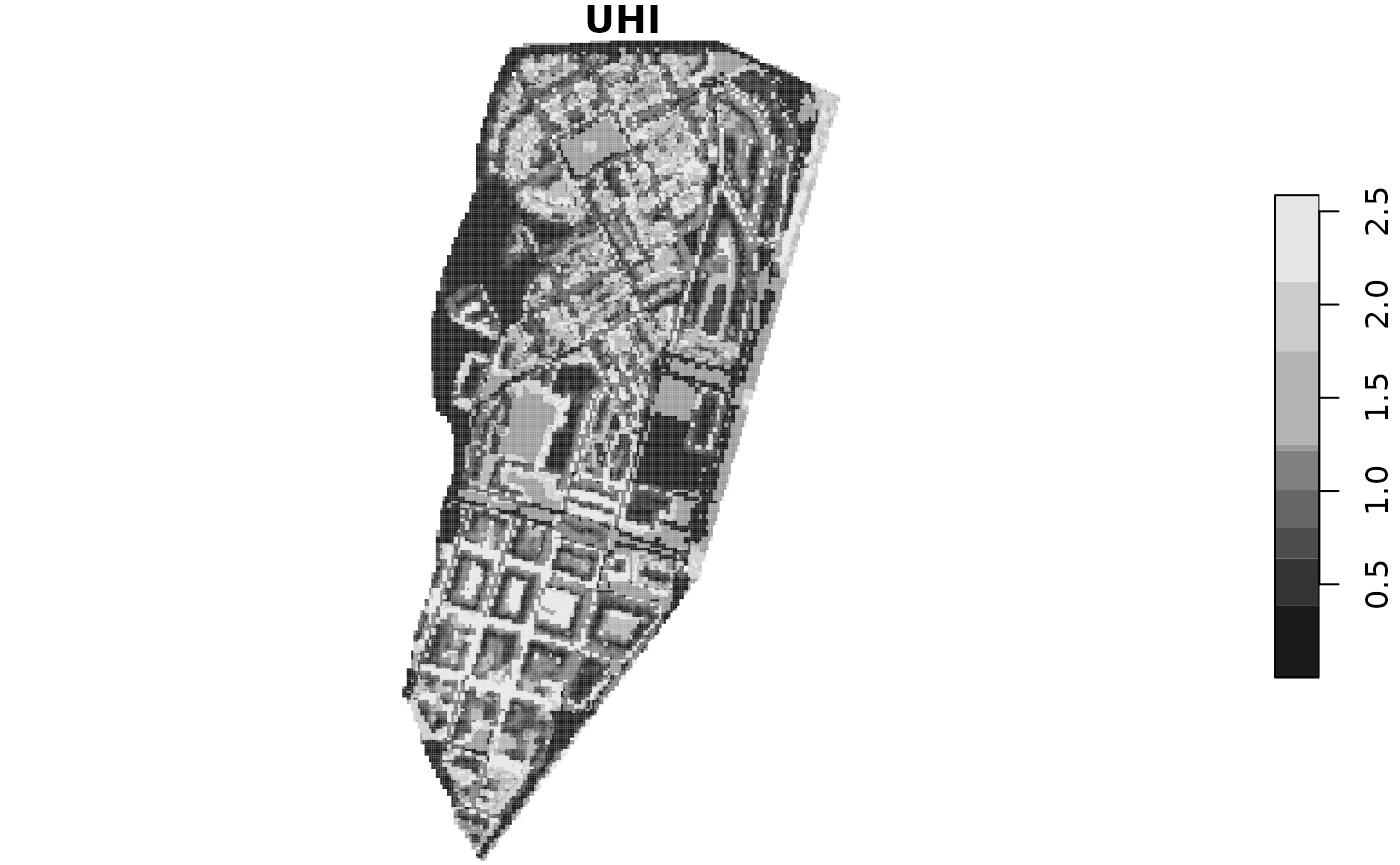
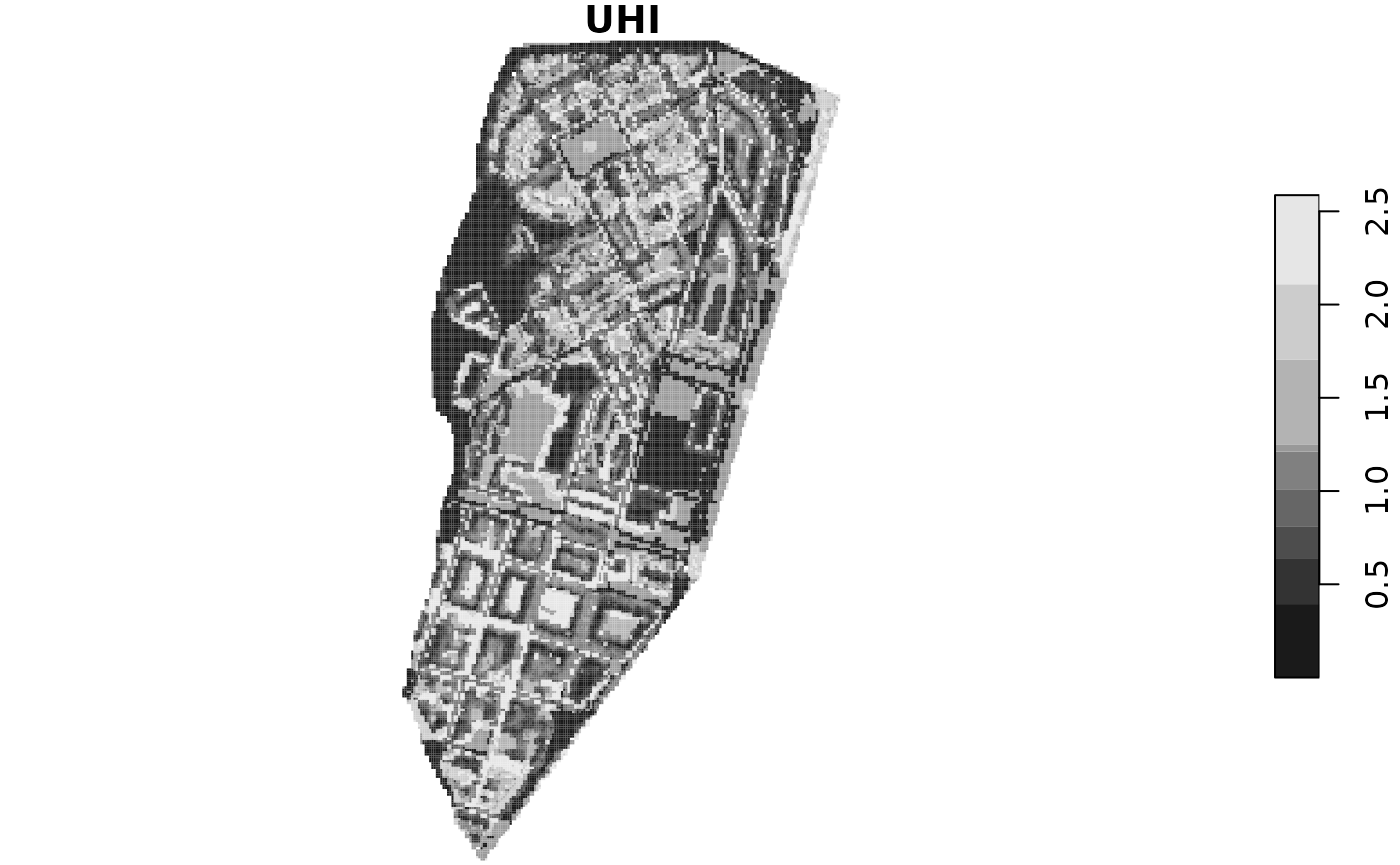
Deploying to gh-pages from @ icra/ediblecity@9cc6f27f5f95d13e22a5ce45d233c3fc29046c6a 🚀

diff --git a/articles/ediblecity.html b/articles/ediblecity.html
@@ -26,7 +26,7 @@
     
     <a class="navbar-brand me-2" href="../index.html">ediblecity</a>
 
-    <small class="nav-text text-muted me-auto" data-bs-toggle="tooltip" data-bs-placement="bottom" title="">0.2.0</small>
+    <small class="nav-text text-muted me-auto" data-bs-toggle="tooltip" data-bs-placement="bottom" title="">0.2.1</small>
 
     
     <button class="navbar-toggler" type="button" data-bs-toggle="collapse" data-bs-target="#navbar" aria-controls="navbar" aria-expanded="false" aria-label="Toggle navigation">
@@ -127,7 +127,7 @@ factor. See <code><a href="../reference/UHI.html">?UHI</a></code> for more detai
 <div class="sourceCode" id="cb3"><pre class="downlit sourceCode r">
 <code class="sourceCode R"><span><span class="fu"><a href="../reference/UHI.html">UHI</a></span><span class="op">(</span><span class="va">scenario</span>, <span class="va">SVF</span><span class="op">)</span></span>
 <span><span class="co">#&gt;    Min. 1st Qu.  Median    Mean 3rd Qu.    Max. </span></span>
-<span><span class="co">#&gt;  0.0000  0.5428  1.0055  1.0321  1.4313  2.5867</span></span></code></pre></div>
+<span><span class="co">#&gt;  0.0000  0.5454  1.0096  1.0291  1.4147  2.5867</span></span></code></pre></div>
 <div class="sourceCode" id="cb4"><pre class="downlit sourceCode r">
 <code class="sourceCode R"><span><span class="fu"><a href="https://rdrr.io/r/graphics/plot.default.html" class="external-link">plot</a></span><span class="op">(</span><span class="fu"><a href="../reference/UHI.html">UHI</a></span><span class="op">(</span><span class="va">scenario</span>, <span class="va">SVF</span>, return_raster <span class="op">=</span> <span class="cn">TRUE</span><span class="op">)</span><span class="op">)</span></span></code></pre></div>
 <p><img src="ediblecity_files/figure-html/unnamed-chunk-3-1.png" width="700"></p>
@@ -142,7 +142,7 @@ agriculture.</p>
 <div class="sourceCode" id="cb5"><pre class="downlit sourceCode r">
 <code class="sourceCode R"><span><span class="fu"><a href="../reference/runoff_prev.html">runoff_prev</a></span><span class="op">(</span><span class="va">scenario</span><span class="op">)</span></span>
 <span><span class="co">#&gt;       runoff     rainfall  rainharvest </span></span>
-<span><span class="co">#&gt;     34.19831 108169.04500   1480.82045</span></span></code></pre></div>
+<span><span class="co">#&gt;     35.04828 108169.04500   1577.69972</span></span></code></pre></div>
 </div>
 <div class="section level3">
 <h3 id="distance-to-closest-green-area">Distance to closest green area<a class="anchor" aria-label="anchor" href="#distance-to-closest-green-area"></a>
@@ -175,7 +175,7 @@ between the neighbourhoods with minimum and maximum value (min /
 max).</p>
 <div class="sourceCode" id="cb8"><pre class="downlit sourceCode r">
 <code class="sourceCode R"><span><span class="fu"><a href="../reference/green_capita.html">green_capita</a></span><span class="op">(</span><span class="va">scenario</span>, inhabitants <span class="op">=</span> <span class="fl">6000</span><span class="op">)</span></span>
-<span><span class="co">#&gt; [1] 10.72</span></span>
+<span><span class="co">#&gt; [1] 10.7965</span></span>
 <span></span>
 <span><span class="fu"><a href="../reference/green_capita.html">green_capita</a></span><span class="op">(</span><span class="va">scenario</span>, </span>
 <span>             neighbourhoods <span class="op">=</span> <span class="va">neighbourhoods_example</span>, </span>
@@ -185,14 +185,14 @@ max).</p>
 <span><span class="co">#&gt; <span style="color: #949494;"># A tibble: 2 × 4</span></span></span>
 <span><span class="co">#&gt;   name              area inhabitants green_capita</span></span>
 <span><span class="co">#&gt;   <span style="color: #949494; font-style: italic;">&lt;chr&gt;</span>            <span style="color: #949494; font-style: italic;">&lt;dbl&gt;</span>       <span style="color: #949494; font-style: italic;">&lt;dbl&gt;</span>        <span style="color: #949494; font-style: italic;">&lt;dbl&gt;</span></span></span>
-<span><span class="co">#&gt; <span style="color: #BCBCBC;">1</span> Sant Narcís nord <span style="text-decoration: underline;">36</span>641        <span style="text-decoration: underline;">1</span>028        35.6 </span></span>
-<span><span class="co">#&gt; <span style="color: #BCBCBC;">2</span> Sant Narcís sud  <span style="text-decoration: underline;">33</span>570        <span style="text-decoration: underline;">5</span>290         6.35</span></span>
+<span><span class="co">#&gt; <span style="color: #BCBCBC;">1</span> Sant Narcís nord <span style="text-decoration: underline;">36</span>208        <span style="text-decoration: underline;">1</span>028        35.2 </span></span>
+<span><span class="co">#&gt; <span style="color: #BCBCBC;">2</span> Sant Narcís sud  <span style="text-decoration: underline;">34</span>252        <span style="text-decoration: underline;">5</span>290         6.47</span></span>
 <span></span>
 <span><span class="fu"><a href="../reference/green_capita.html">green_capita</a></span><span class="op">(</span><span class="va">scenario</span>, </span>
 <span>             neighbourhoods <span class="op">=</span> <span class="va">neighbourhoods_example</span>, </span>
 <span>             inh_col <span class="op">=</span> <span class="st">'inhabitants'</span>,</span>
 <span>             name_col <span class="op">=</span> <span class="st">'name'</span><span class="op">)</span></span>
-<span><span class="co">#&gt; [1] 0.1780416</span></span></code></pre></div>
+<span><span class="co">#&gt; [1] 0.183831</span></span></code></pre></div>
 </div>
 <div class="section level3">
 <h3 id="nitrogen-dioxide-no2-sequestered-by-urban-green">Nitrogen dioxide (NO<sub>2</sub>) sequestered by urban green<a class="anchor" aria-label="anchor" href="#nitrogen-dioxide-no2-sequestered-by-urban-green"></a>
@@ -202,8 +202,8 @@ NO<sub>2</sub> sequestered by urban green in gr/s.</p>
 <div class="sourceCode" id="cb9"><pre class="downlit sourceCode r">
 <code class="sourceCode R"><span></span>
 <span><span class="fu"><a href="../reference/no2_seq.html">no2_seq</a></span><span class="op">(</span><span class="va">scenario</span><span class="op">)</span></span>
-<span><span class="co">#&gt;     gr/s </span></span>
-<span><span class="co">#&gt; 109.5264</span></span></code></pre></div>
+<span><span class="co">#&gt;    gr/s </span></span>
+<span><span class="co">#&gt; 109.458</span></span></code></pre></div>
 </div>
 <div class="section level3">
 <h3 id="jobs-created-by-commercial-urban-agriculture">Jobs created by commercial urban agriculture<a class="anchor" aria-label="anchor" href="#jobs-created-by-commercial-urban-agriculture"></a>
@@ -216,7 +216,7 @@ to estimate the value and returns the confidence interval (unless
 <div class="sourceCode" id="cb10"><pre class="downlit sourceCode r">
 <code class="sourceCode R"><span><span class="fu"><a href="../reference/edible_jobs.html">edible_jobs</a></span><span class="op">(</span><span class="va">scenario</span><span class="op">)</span></span>
 <span><span class="co">#&gt;        5%       50%       95% </span></span>
-<span><span class="co">#&gt;  232.6911 1695.7325 3250.6920</span></span></code></pre></div>
+<span><span class="co">#&gt;  222.3375 1711.5146 3235.7088</span></span></code></pre></div>
 </div>
 <div class="section level3">
 <h3 id="volunteers-involved-in-community-urban-agriculture">Volunteers involved in community urban agriculture<a class="anchor" aria-label="anchor" href="#volunteers-involved-in-community-urban-agriculture"></a>
@@ -229,7 +229,7 @@ interval (unless <code>verbose = TRUE</code>).</p>
 <div class="sourceCode" id="cb11"><pre class="downlit sourceCode r">
 <code class="sourceCode R"><span><span class="fu"><a href="../reference/edible_volunteers.html">edible_volunteers</a></span><span class="op">(</span><span class="va">scenario</span><span class="op">)</span></span>
 <span><span class="co">#&gt;        5%       50%       95% </span></span>
-<span><span class="co">#&gt;  356.9766 2323.9213 4413.8750</span></span></code></pre></div>
+<span><span class="co">#&gt;  288.3324 2358.9116 4413.1872</span></span></code></pre></div>
 </div>
 <div class="section level3">
 <h3 id="food-production">Food production<a class="anchor" aria-label="anchor" href="#food-production"></a>
@@ -242,7 +242,7 @@ the value and returns the confidence interval (unless
 <div class="sourceCode" id="cb12"><pre class="downlit sourceCode r">
 <code class="sourceCode R"><span><span class="fu"><a href="../reference/food_production.html">food_production</a></span><span class="op">(</span><span class="va">scenario</span><span class="op">)</span></span>
 <span><span class="co">#&gt;        5%       50%       95% </span></span>
-<span><span class="co">#&gt;  672921.2  903438.1 1147010.7</span></span></code></pre></div>
+<span><span class="co">#&gt;  665937.6  907121.6 1157100.9</span></span></code></pre></div>
 </div>
 </div>
 <div class="section level2">

diff --git a/reference/edible_jobs.html b/reference/edible_jobs.html
@@ -16,7 +16,7 @@ within the provided range."><!-- mathjax --><script src="https://cdnjs.cloudflar
     
     <a class="navbar-brand me-2" href="../index.html">ediblecity</a>
 
-    <small class="nav-text text-muted me-auto" data-bs-toggle="tooltip" data-bs-placement="bottom" title="">0.2.0</small>
+    <small class="nav-text text-muted me-auto" data-bs-toggle="tooltip" data-bs-placement="bottom" title="">0.2.1</small>
 
     
     <button class="navbar-toggler" type="button" data-bs-toggle="collapse" data-bs-target="#navbar" aria-controls="navbar" aria-expanded="false" aria-label="Toggle navigation">
@@ -119,14 +119,14 @@ Otherwise, it returns a vector of length 1000 with all simulated values.</p>
 <span class="r-in"><span><span class="va">scenario</span> <span class="op">&lt;-</span> <span class="fu"><a href="set_scenario.html">set_scenario</a></span><span class="op">(</span><span class="va">city_example</span>, pCommercial <span class="op">=</span> <span class="fl">1</span>, quiet <span class="op">=</span> <span class="cn">TRUE</span><span class="op">)</span></span></span>
 <span class="r-in"><span><span class="co"># Get the 95% confidence interval</span></span></span>
 <span class="r-in"><span><span class="fu">edible_jobs</span><span class="op">(</span><span class="va">scenario</span>, interval <span class="op">=</span> <span class="fl">0.95</span><span class="op">)</span></span></span>
-<span class="r-out co"><span class="r-pr">#&gt;</span>        5%       50%       95% </span>
-<span class="r-out co"><span class="r-pr">#&gt;</span>  188.7211 1470.6286 2771.3839 </span>
+<span class="r-out co"><span class="r-pr">#&gt;</span>       5%      50%      95% </span>
+<span class="r-out co"><span class="r-pr">#&gt;</span>  130.630 1396.691 2805.711 </span>
 <span class="r-in"><span></span></span>
 <span class="r-in"><span><span class="co"># Get the raw values from the Monte Carlo simulation and adjust the number of jobs by square meter.</span></span></span>
 <span class="r-in"><span><span class="va">result</span> <span class="op">&lt;-</span> <span class="fu">edible_jobs</span><span class="op">(</span><span class="va">scenario</span>, jobs <span class="op">=</span> <span class="fu"><a href="https://rdrr.io/r/base/c.html" class="external-link">c</a></span><span class="op">(</span><span class="fl">0.02</span>, <span class="fl">0.03</span><span class="op">)</span>, verbose <span class="op">=</span> <span class="cn">TRUE</span><span class="op">)</span></span></span>
 <span class="r-in"><span><span class="va">result</span><span class="op">[</span><span class="fl">1</span><span class="op">:</span><span class="fl">10</span><span class="op">]</span></span></span>
-<span class="r-out co"><span class="r-pr">#&gt;</span>  [1] 2803.633 2749.905 3338.869 3646.573 3452.119 3166.184 3460.768 2754.571</span>
-<span class="r-out co"><span class="r-pr">#&gt;</span>  [9] 3382.925 2903.857</span>
+<span class="r-out co"><span class="r-pr">#&gt;</span>  [1] 3758.321 3386.256 2690.395 2943.413 2861.953 2805.256 3280.549 3066.986</span>
+<span class="r-out co"><span class="r-pr">#&gt;</span>  [9] 3310.230 2956.699</span>
 </code></pre></div>
     </div>
   </main><aside class="col-md-3"><nav id="toc"><h2>On this page</h2>

diff --git a/reference/edible_volunteers.html b/reference/edible_volunteers.html
@@ -18,7 +18,7 @@ in scientific literature, assuming that a volunteers dedicates a 10"><!-- mathja
     
     <a class="navbar-brand me-2" href="../index.html">ediblecity</a>
 
-    <small class="nav-text text-muted me-auto" data-bs-toggle="tooltip" data-bs-placement="bottom" title="">0.2.0</small>
+    <small class="nav-text text-muted me-auto" data-bs-toggle="tooltip" data-bs-placement="bottom" title="">0.2.1</small>
 
     
     <button class="navbar-toggler" type="button" data-bs-toggle="collapse" data-bs-target="#navbar" aria-controls="navbar" aria-expanded="false" aria-label="Toggle navigation">
@@ -120,15 +120,15 @@ Otherwise, it returns a vector of length 1000 with all simulated values.</p>
     <h2 id="ref-examples">Examples<a class="anchor" aria-label="anchor" href="#ref-examples"></a></h2>
     <div class="sourceCode"><pre class="sourceCode r"><code><span class="r-in"><span><span class="co"># Get the 95% confidence interval</span></span></span>
 <span class="r-in"><span><span class="fu">edible_volunteers</span><span class="op">(</span><span class="va">city_example</span>, interval <span class="op">=</span> <span class="fl">0.95</span><span class="op">)</span></span></span>
-<span class="r-out co"><span class="r-pr">#&gt;</span>       5%      50%      95% </span>
-<span class="r-out co"><span class="r-pr">#&gt;</span>  2.38500 18.35842 33.46784 </span>
+<span class="r-out co"><span class="r-pr">#&gt;</span>        5%       50%       95% </span>
+<span class="r-out co"><span class="r-pr">#&gt;</span>  1.751269 17.459086 33.494280 </span>
 <span class="r-in"><span></span></span>
 <span class="r-in"><span><span class="co"># Get the raw values from the Monte Carlo simulation</span></span></span>
 <span class="r-in"><span><span class="co"># and adjust the number of volunteers by squared meter.</span></span></span>
 <span class="r-in"><span><span class="va">result</span> <span class="op">&lt;-</span> <span class="fu">edible_volunteers</span><span class="op">(</span><span class="va">city_example</span>, volunteers <span class="op">=</span> <span class="fu"><a href="https://rdrr.io/r/base/c.html" class="external-link">c</a></span><span class="op">(</span><span class="fl">0.1</span>, <span class="fl">0.2</span><span class="op">)</span>, verbose <span class="op">=</span> <span class="cn">TRUE</span><span class="op">)</span></span></span>
 <span class="r-in"><span><span class="va">result</span><span class="op">[</span><span class="fl">1</span><span class="op">:</span><span class="fl">10</span><span class="op">]</span></span></span>
-<span class="r-out co"><span class="r-pr">#&gt;</span>  [1] 16.42029 31.60795 17.36350 30.65490 22.74330 21.14808 19.19473 18.69853</span>
-<span class="r-out co"><span class="r-pr">#&gt;</span>  [9] 16.69724 31.01758</span>
+<span class="r-out co"><span class="r-pr">#&gt;</span>  [1] 28.36549 31.01513 16.85794 20.10374 29.12362 20.02458 28.01087 26.91942</span>
+<span class="r-out co"><span class="r-pr">#&gt;</span>  [9] 20.02392 25.76099</span>
 </code></pre></div>
     </div>
   </main><aside class="col-md-3"><nav id="toc"><h2>On this page</h2>

diff --git a/reference/food_production.html b/reference/food_production.html
@@ -16,7 +16,7 @@ within the provided range."><!-- mathjax --><script src="https://cdnjs.cloudflar
     
     <a class="navbar-brand me-2" href="../index.html">ediblecity</a>
 
-    <small class="nav-text text-muted me-auto" data-bs-toggle="tooltip" data-bs-placement="bottom" title="">0.2.0</small>
+    <small class="nav-text text-muted me-auto" data-bs-toggle="tooltip" data-bs-placement="bottom" title="">0.2.1</small>
 
     
     <button class="navbar-toggler" type="button" data-bs-toggle="collapse" data-bs-target="#navbar" aria-controls="navbar" aria-expanded="false" aria-label="Toggle navigation">
@@ -117,13 +117,13 @@ sf::st_area()</p></dd>
     <div class="sourceCode"><pre class="sourceCode r"><code><span class="r-in"><span><span class="co"># Estimate the food production within 95% confidence interval</span></span></span>
 <span class="r-in"><span><span class="fu">food_production</span><span class="op">(</span><span class="va">city_example</span>, interval <span class="op">=</span> <span class="fl">0.95</span>, verbose <span class="op">=</span> <span class="cn">FALSE</span><span class="op">)</span></span></span>
 <span class="r-out co"><span class="r-pr">#&gt;</span>        5%       50%       95% </span>
-<span class="r-out co"><span class="r-pr">#&gt;</span>  49.27197 191.83196 335.47207 </span>
+<span class="r-out co"><span class="r-pr">#&gt;</span>  46.70925 188.74517 333.30590 </span>
 <span class="r-in"><span></span></span>
 <span class="r-in"><span><span class="co"># Get the raw values instead of the confidence interval</span></span></span>
 <span class="r-in"><span><span class="va">result</span> <span class="op">&lt;-</span> <span class="fu">food_production</span><span class="op">(</span><span class="va">city_example</span>, verbose <span class="op">=</span> <span class="cn">TRUE</span><span class="op">)</span></span></span>
 <span class="r-in"><span><span class="va">result</span><span class="op">[</span><span class="fl">1</span><span class="op">:</span><span class="fl">10</span><span class="op">]</span></span></span>
-<span class="r-out co"><span class="r-pr">#&gt;</span>  [1] 265.13619 248.50512 123.48252 224.47779  84.12676 112.68918 145.05501</span>
-<span class="r-out co"><span class="r-pr">#&gt;</span>  [8]  96.82662  80.60366 258.59961</span>
+<span class="r-out co"><span class="r-pr">#&gt;</span>  [1] 149.22070 227.99701 123.71740  61.54808 137.57378 294.77605 217.82880</span>
+<span class="r-out co"><span class="r-pr">#&gt;</span>  [8] 296.25073 187.86866  48.23958</span>
 </code></pre></div>
     </div>
   </main><aside class="col-md-3"><nav id="toc"><h2>On this page</h2>

diff --git a/reference/runoff_prev.html b/reference/runoff_prev.html
@@ -14,7 +14,7 @@ government."><!-- mathjax --><script src="https://cdnjs.cloudflare.com/ajax/libs
     
     <a class="navbar-brand me-2" href="../index.html">ediblecity</a>
 
-    <small class="nav-text text-muted me-auto" data-bs-toggle="tooltip" data-bs-placement="bottom" title="">0.2.0</small>
+    <small class="nav-text text-muted me-auto" data-bs-toggle="tooltip" data-bs-placement="bottom" title="">0.2.1</small>
 
     
     <button class="navbar-toggler" type="button" data-bs-toggle="collapse" data-bs-target="#navbar" aria-controls="navbar" aria-expanded="false" aria-label="Toggle navigation">
@@ -121,12 +121,12 @@ and harvested rainwater in cubic meters.</p>
     <div class="sourceCode"><pre class="sourceCode r"><code><span class="r-in"><span><span class="co"># Get the total values of runoff, rainfall and rain harvested</span></span></span>
 <span class="r-in"><span><span class="fu">runoff_prev</span><span class="op">(</span><span class="va">city_example</span><span class="op">)</span></span></span>
 <span class="r-out co"><span class="r-pr">#&gt;</span>       runoff     rainfall  rainharvest </span>
-<span class="r-out co"><span class="r-pr">#&gt;</span>     38.78609 108169.04500   1357.02543 </span>
+<span class="r-out co"><span class="r-pr">#&gt;</span>     37.22081 108169.04500   1055.70439 </span>
 <span class="r-in"><span></span></span>
 <span class="r-in"><span><span class="co"># Adjust the parameters for rain, maximum distance to harvest rainwater and tank size</span></span></span>
 <span class="r-in"><span><span class="fu">runoff_prev</span><span class="op">(</span><span class="va">city_example</span>, rain <span class="op">=</span> <span class="fl">160</span>, harvest_dist <span class="op">=</span> <span class="fl">5</span>, tank_size <span class="op">=</span> <span class="fu"><a href="https://rdrr.io/r/base/c.html" class="external-link">c</a></span><span class="op">(</span><span class="fl">20</span>,<span class="fl">30</span><span class="op">)</span><span class="op">)</span></span></span>
 <span class="r-out co"><span class="r-pr">#&gt;</span>      runoff    rainfall rainharvest </span>
-<span class="r-out co"><span class="r-pr">#&gt;</span>    100.8281 203612.3200   1366.4859 </span>
+<span class="r-out co"><span class="r-pr">#&gt;</span>    100.0353 203612.3200   1382.6735 </span>
 </code></pre></div>
     </div>
   </main><aside class="col-md-3"><nav id="toc"><h2>On this page</h2>

diff --git a/reference/no2_seq.html b/reference/no2_seq.html
@@ -10,7 +10,7 @@
     
     <a class="navbar-brand me-2" href="../index.html">ediblecity</a>
 
-    <small class="nav-text text-muted me-auto" data-bs-toggle="tooltip" data-bs-placement="bottom" title="">0.2.0</small>
+    <small class="nav-text text-muted me-auto" data-bs-toggle="tooltip" data-bs-placement="bottom" title="">0.2.1</small>
 
     
     <button class="navbar-toggler" type="button" data-bs-toggle="collapse" data-bs-target="#navbar" aria-controls="navbar" aria-expanded="false" aria-label="Toggle navigation">
@@ -90,7 +90,7 @@ urban features.</p></dd>
     <div class="sourceCode"><pre class="sourceCode r"><code><span class="r-in"><span><span class="co"># Get the total nitrogen dioxide sequestered by urban green</span></span></span>
 <span class="r-in"><span><span class="fu">no2_seq</span><span class="op">(</span><span class="va">city_example</span><span class="op">)</span></span></span>
 <span class="r-out co"><span class="r-pr">#&gt;</span>     gr/s </span>
-<span class="r-out co"><span class="r-pr">#&gt;</span> 102.1043 </span>
+<span class="r-out co"><span class="r-pr">#&gt;</span> 102.1038 </span>
 </code></pre></div>
     </div>
   </main><aside class="col-md-3"><nav id="toc"><h2>On this page</h2>

diff --git a/reference/SVF.html b/reference/SVF.html
@@ -12,7 +12,7 @@ calculated using SAGA algorithm on a digital surface model of 3x3 from a LIDAR d
     
     <a class="navbar-brand me-2" href="../index.html">ediblecity</a>
 
-    <small class="nav-text text-muted me-auto" data-bs-toggle="tooltip" data-bs-placement="bottom" title="">0.2.0</small>
+    <small class="nav-text text-muted me-auto" data-bs-toggle="tooltip" data-bs-placement="bottom" title="">0.2.1</small>
 
     
     <button class="navbar-toggler" type="button" data-bs-toggle="collapse" data-bs-target="#navbar" aria-controls="navbar" aria-expanded="false" aria-label="Toggle navigation">

diff --git a/reference/UHI.html b/reference/UHI.html
@@ -12,7 +12,7 @@ government."><!-- mathjax --><script src="https://cdnjs.cloudflare.com/ajax/libs
     
     <a class="navbar-brand me-2" href="../index.html">ediblecity</a>
 
-    <small class="nav-text text-muted me-auto" data-bs-toggle="tooltip" data-bs-placement="bottom" title="">0.2.0</small>
+    <small class="nav-text text-muted me-auto" data-bs-toggle="tooltip" data-bs-placement="bottom" title="">0.2.1</small>
 
     
     <button class="navbar-toggler" type="button" data-bs-toggle="collapse" data-bs-target="#navbar" aria-controls="navbar" aria-expanded="false" aria-label="Toggle navigation">

diff --git a/reference/city_example.html b/reference/city_example.html
@@ -12,7 +12,7 @@ It is specifically the urban model for Sant Narcís, a neighbourhood of Girona (
     
     <a class="navbar-brand me-2" href="../index.html">ediblecity</a>
 
-    <small class="nav-text text-muted me-auto" data-bs-toggle="tooltip" data-bs-placement="bottom" title="">0.2.0</small>
+    <small class="nav-text text-muted me-auto" data-bs-toggle="tooltip" data-bs-placement="bottom" title="">0.2.1</small>
 
     
     <button class="navbar-toggler" type="button" data-bs-toggle="collapse" data-bs-target="#navbar" aria-controls="navbar" aria-expanded="false" aria-label="Toggle navigation">

diff --git a/reference/city_land_uses.html b/reference/city_land_uses.html
@@ -14,7 +14,7 @@ are already the default values."><!-- mathjax --><script src="https://cdnjs.clou
     
     <a class="navbar-brand me-2" href="../index.html">ediblecity</a>
 
-    <small class="nav-text text-muted me-auto" data-bs-toggle="tooltip" data-bs-placement="bottom" title="">0.2.0</small>
+    <small class="nav-text text-muted me-auto" data-bs-toggle="tooltip" data-bs-placement="bottom" title="">0.2.1</small>
 
     
     <button class="navbar-toggler" type="button" data-bs-toggle="collapse" data-bs-target="#navbar" aria-controls="navbar" aria-expanded="false" aria-label="Toggle navigation">

diff --git a/reference/green_capita.html b/reference/green_capita.html
@@ -12,7 +12,7 @@ such as gardens and crops or exclude them."><!-- mathjax --><script src="https:/
     
     <a class="navbar-brand me-2" href="../index.html">ediblecity</a>
 
-    <small class="nav-text text-muted me-auto" data-bs-toggle="tooltip" data-bs-placement="bottom" title="">0.2.0</small>
+    <small class="nav-text text-muted me-auto" data-bs-toggle="tooltip" data-bs-placement="bottom" title="">0.2.1</small>
 
     
     <button class="navbar-toggler" type="button" data-bs-toggle="collapse" data-bs-target="#navbar" aria-controls="navbar" aria-expanded="false" aria-label="Toggle navigation">

diff --git a/reference/green_distance.html b/reference/green_distance.html
@@ -14,7 +14,7 @@ than a defined distance."><!-- mathjax --><script src="https://cdnjs.cloudflare.
     
     <a class="navbar-brand me-2" href="../index.html">ediblecity</a>
 
-    <small class="nav-text text-muted me-auto" data-bs-toggle="tooltip" data-bs-placement="bottom" title="">0.2.0</small>
+    <small class="nav-text text-muted me-auto" data-bs-toggle="tooltip" data-bs-placement="bottom" title="">0.2.1</small>
 
     
     <button class="navbar-toggler" type="button" data-bs-toggle="collapse" data-bs-target="#navbar" aria-controls="navbar" aria-expanded="false" aria-label="Toggle navigation">
